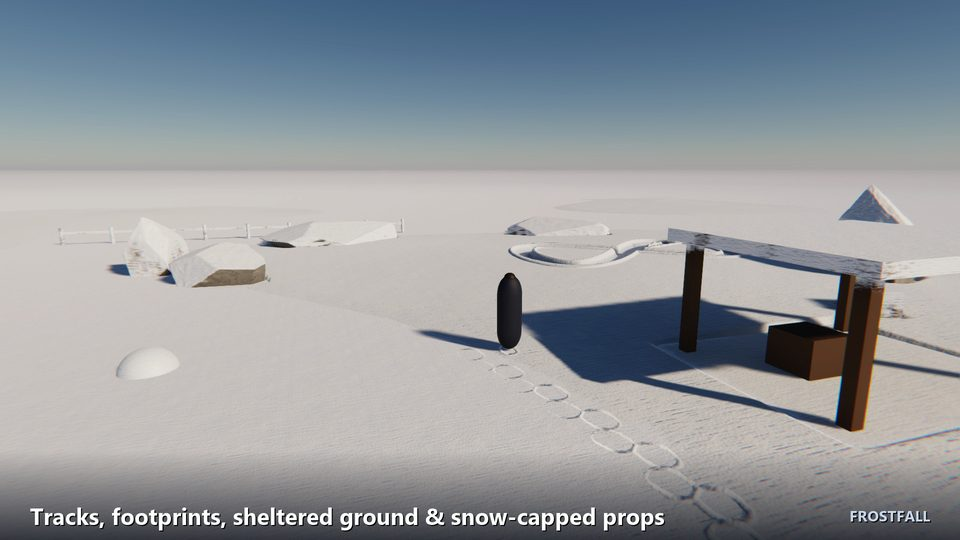
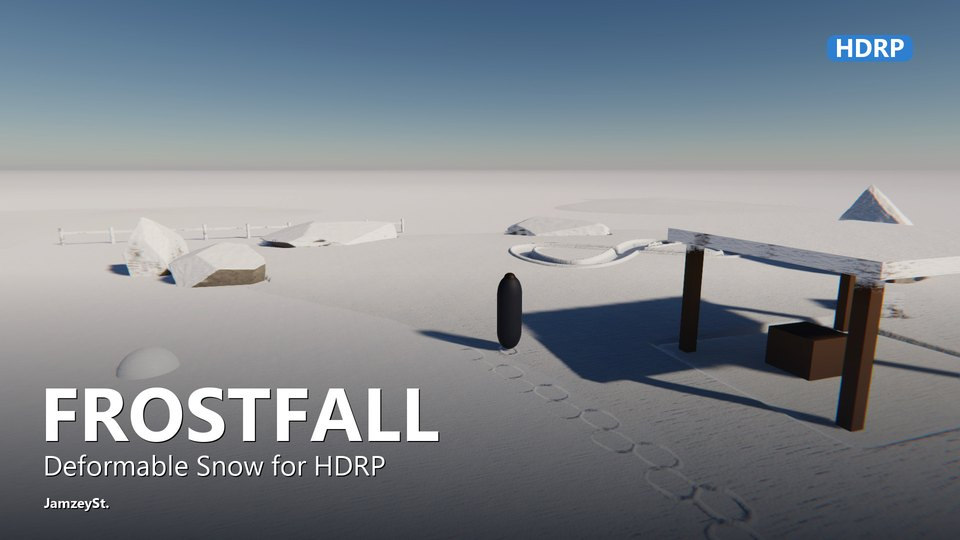
Use Frostfall's branded thumbnail for its card and page hero

diff --git a/editor-customizer.html b/editor-customizer.html
@@ -47,7 +47,7 @@
         <a class="btn btn-ghost" href="#video">Watch the trailer</a>
       </div>
     </div>
-    <div class="shot"><img src="img/editor-customizer/01_make_it_yours.jpg" alt="Editor Customizer versus Unity&#x27;s default look" width="1600" height="900"></div>
+    <div class="shot"><img src="img/editor-customizer/01_make_it_yours.jpg" alt="Editor Customizer – Themes, Hierarchy, Toolbar &amp; Editor Health" width="1600" height="900"></div>
   </div>
 </section>
 

diff --git a/carve.html b/carve.html
@@ -47,7 +47,7 @@
         <a class="btn btn-ghost" href="#video">Watch the trailer</a>
       </div>
     </div>
-    <div class="shot"><img src="img/carve/01_hero.jpg" alt="Carve walled town" width="1600" height="900"></div>
+    <div class="shot"><img src="img/carve/01_hero.jpg" alt="Carve – Silhouette Parallax Occlusion Mapping for HDRP &amp; URP" width="1600" height="900"></div>
   </div>
 </section>
 

diff --git a/downpour.html b/downpour.html
@@ -47,7 +47,7 @@
         <a class="btn btn-ghost" href="#video">Watch the trailer</a>
       </div>
     </div>
-    <div class="shot"><img src="img/downpour/01_hero.jpg" alt="Downpour hero street" width="1600" height="900"></div>
+    <div class="shot"><img src="img/downpour/01_hero.jpg" alt="Downpour – Rain &amp; Wet Surfaces for HDRP" width="1600" height="900"></div>
   </div>
 </section>
 

diff --git a/frostfall.html b/frostfall.html
@@ -47,7 +47,7 @@
         <a class="btn btn-ghost" href="#video">Watch the trailer</a>
       </div>
     </div>
-    <div class="shot"><img src="img/frostfall/01_hero.jpg" alt="Frostfall hero scene" width="1600" height="900"></div>
+    <div class="shot"><img src="img/frostfall/thumbnail.jpg" alt="Frostfall – Deformable Snow for HDRP" width="1600" height="900"></div>
   </div>
 </section>
 

diff --git a/tools/prepare_media.py b/tools/prepare_media.py
@@ -17,7 +17,9 @@ GALLERY = {
     "editor-customizer": ("Cockpit/StoreMedia", ".png", ["01_make_it_yours", "02_one_window", "03_themes", "04_hierarchy",
                                                          "05_project", "06_quick_actions", "07_editor_health", "08_guided_tour"]),
 }
-CARD = {"editor-customizer": "Cockpit/StoreMedia/KeyImages/YouTube_Thumbnail_1280x720.png"}
+CARD = {"editor-customizer": "Cockpit/StoreMedia/KeyImages/YouTube_Thumbnail_1280x720.png",
+        "frostfall": "Frostfall/Fab/Thumbnail_1920x1080.jpg"}
+HERO = {"frostfall": "Frostfall/Fab/Thumbnail_1920x1080.jpg"}
 
 def save(im, path, width, q=82):
     im = im.convert("RGB")
@@ -34,6 +36,8 @@ for slug, (folder, ext, picks) in GALLERY.items():
         save(src, out + "_thumb.jpg", 640, 80 if ext == ".png" else 78)
     card = CARD.get(slug, f"{folder}/{picks[0]}{ext}")
     save(Image.open(f"{MEDIA}/{card}"), f"{SITE}/img/{slug}/card.jpg", 960, 86 if slug in CARD else 82)
+    if slug in HERO:
+        save(Image.open(f"{MEDIA}/{HERO[slug]}"), f"{SITE}/img/{slug}/thumbnail.jpg", 1600, 86)
 
 social = Image.open(f"{MEDIA}/Fab_Profile/JamzeySt_Fab_Cover_1920x540.png").convert("RGB")
 canvas = Image.new("RGB", (1200, 630), social.getpixel((4, 4)))

diff --git a/tools/build.py b/tools/build.py
@@ -14,7 +14,7 @@ EMAIL = "jamzeyst@gmail.com"
 ASSETS = [
     dict(
         slug="frostfall", name="Frostfall", sub="Deformable Snow for HDRP",
-        store="https://assetstore.unity.com/packages/package/412814", version="1.1.0",
+        store="https://assetstore.unity.com/packages/package/412814", version="1.1.0", hero="thumbnail",
         pipelines=["HDRP"],
         tag="Snow that piles up, takes footprints and covers every object.",
         lead="Open-world snow for the High Definition Render Pipeline. Characters leave boot prints, vehicles carve "
@@ -407,7 +407,7 @@ def product(a):
         <a class="btn btn-ghost" href="#video">Watch the trailer</a>
       </div>
     </div>
-    <div class="shot"><img src="img/{a['slug']}/{a['gallery'][0][0]}.jpg" alt="{escape(a['gallery'][0][1])}" width="1600" height="900"></div>
+    <div class="shot"><img src="img/{a['slug']}/{a.get('hero', a['gallery'][0][0])}.jpg" alt="{escape(a['name'] + ' – ' + a['sub'])}" width="1600" height="900"></div>
   </div>
 </section>
 
